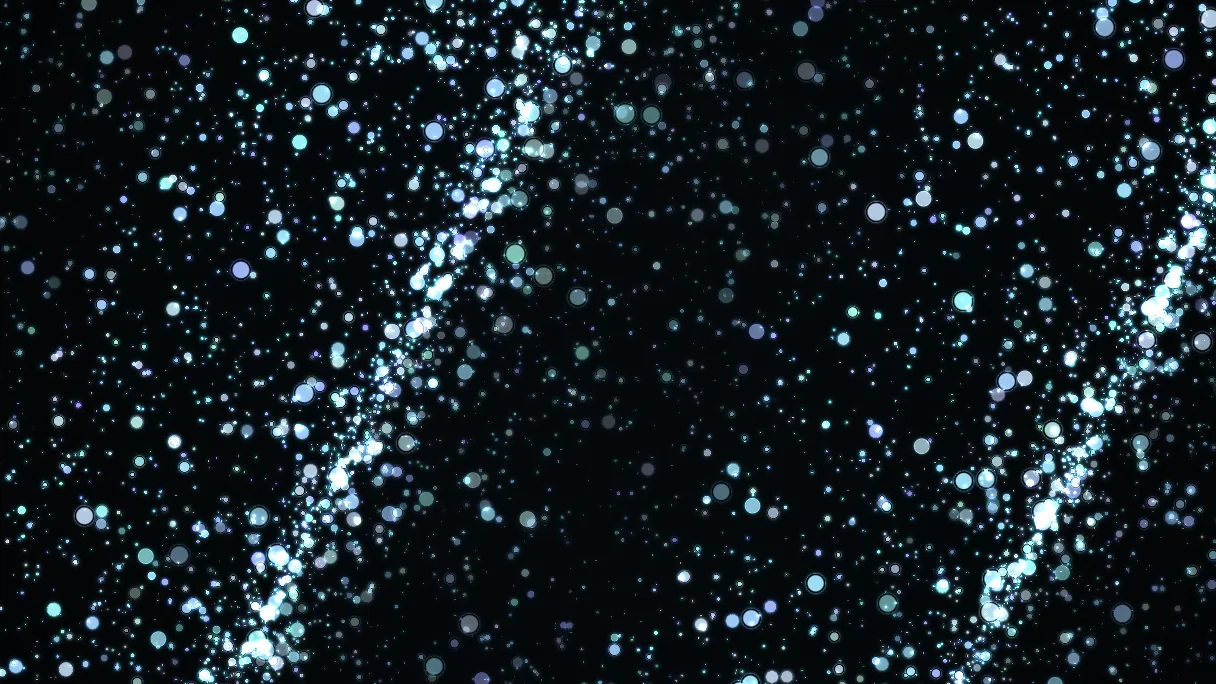
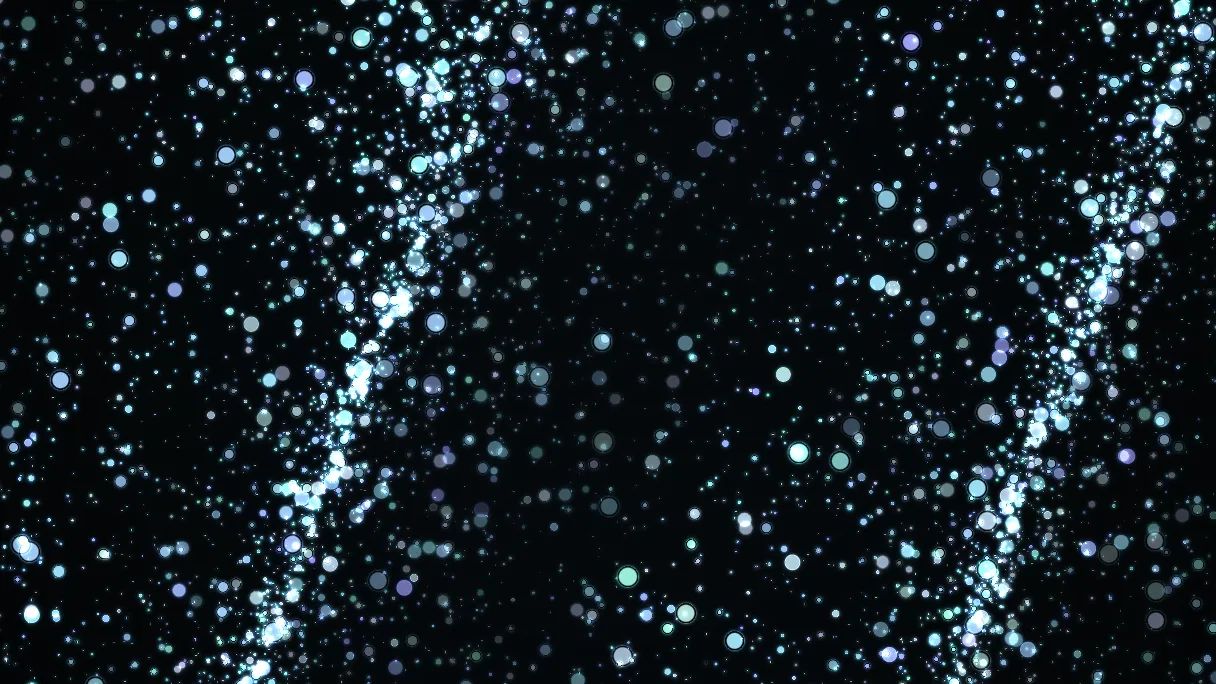
feat(experiments): crowd and flotsam draw their first frames, and the wall gets 3 s
Andrei: "let's raise the 1.5s limit. why can't crowd show the first frame?
flotsam?" Compared at plate size, each first frame reads as the same picture
as its settled poster: flotsam's lines are wave displacement, there from
frame one, and crowd's files and crossings do not show in a still. They draw
in 176 ms and 219 ms instead of 45 s and 40 s of simulation, and both
posters are recaptured from the same frame. Ten plates come to about 1.5 s,
so the wall's total budget is now 3 s.

diff --git a/src/experiments/flotsam/poster.ts b/src/experiments/flotsam/poster.ts
@@ -2,40 +2,32 @@ import type { ExperimentApi } from "@/experiments/flotsam/runner"
 import type { PosterRecipe } from "@/experiments/poster"
 
 /**
- * What Flotsam looks like when someone should want to click it.
+ * What Flotsam looks like when someone should want to click it: its first
+ * frame.
  *
- * The moment is the whole recipe. Frame one is a *uniform* scatter of specks —
- * the homes are drawn uniformly and nothing has happened to them yet — which is
- * a picture of the piece before it has done the only thing it does. The
- * gathering takes a wave period or two to establish, and the drift a good deal
- * longer. So the shutter waits, and `api.run()` is how it waits without a
- * capture taking half a minute.
+ * **This recipe used to run forty seconds**, on the claim that frame one is a
+ * uniform scatter of specks. It is not. The specks' *homes* are uniform, and
+ * that is where the piece starts, but a speck is drawn where the waves have
+ * displaced it from its home, so the lines the waves gather it into are there
+ * in the first frame. What forty seconds added was drift: the current carrying
+ * those lines somewhere else, which in a still is just a different place for
+ * them. Compared side by side at plate size, the two read as the same sea.
  *
- * Forty seconds, which is about five periods of the longest train in the landing
- * scene. Long enough for the flotsam to have collected into lines and for the
- * current to have carried them somewhere; not so long that the reader is looking
- * at a different scene from the one the page opens on.
+ * And the recipe has a second reader now. The index draws each plate live in a
+ * few hundred milliseconds or falls back to this poster
+ * (`../docs/adr/20261102-the-index-draws-its-plates.md`), and forty seconds of
+ * this sea cost about four. The first frame takes 219 ms.
  *
  * No preset named, deliberately, and for the reason Dangler's recipe gives: a
  * bare URL lands on the first preset, so opening the piece and photographing it
- * are the same act and the poster cannot come to show a scene the landing page
- * does not. Naming it here would be a second place to change, and the one that
- * gets forgotten.
+ * are the same act.
  *
- * Not byte-reproducible, although everything about the sea is. The seed fixes
- * the wave phases, the eddy field and every speck, and `run()` steps a fixed
- * number of times — so two captures put the same flotsam in the same places. The
- * sprites do not: their gradients are dithered with `Math.random` to break the
- * banding an eight-bit ramp would otherwise show, which moves every alpha by up
- * to half a level. Invisible to a person, and enough to churn the file, which is
- * what the slug filter on `pnpm run posters` is for.
+ * Not byte-reproducible. The sprites' gradients are dithered with
+ * `Math.random` to break the banding an eight-bit ramp would otherwise show,
+ * which is invisible to a person and enough to churn the file. That is what
+ * the slug filter on `pnpm run posters` is for.
  */
 const poster: PosterRecipe<ExperimentApi> = {
-  prepare: ({ api }) => api.run(40),
-
-  // No dwell. `run` has already put the sea where it should be, and waiting
-  // would only pick a different point in the same motion at the cost of a
-  // slower capture.
   dwellMs: 0,
 }
 

diff --git a/src/experiments/crowd/poster.ts b/src/experiments/crowd/poster.ts
@@ -2,42 +2,27 @@ import type { ExperimentApi } from "@/experiments/crowd/runner"
 import type { PosterRecipe } from "@/experiments/poster"
 
 /**
- * What Crowd looks like when somebody should want to click it.
+ * What Crowd looks like when somebody should want to click it: its first frame.
  *
- * A cold start is a crowd that has been placed and has not yet done anything:
- * nobody has negotiated a crossing, no files have formed, no group has been
- * squeezed through a gap, and the observer is standing still because their first
- * stretch of walking has not begun. It is a picture of a square before the
- * square happens, and dwelling in the capture script cannot fix it at a sensible
- * cost because dwelling is wall-clock and this needs a minute.
+ * **This recipe used to settle forty-five seconds**, on the reasoning that a cold
+ * start is "a square before the square happens": nobody has negotiated a
+ * crossing, no files have formed, and the observer has not started walking. All
+ * of that is true of the motion and none of it shows in a still. Compared side
+ * by side at plate size, the first frame and the settled one read as the same
+ * square. People on the horizon, a few near enough to be large.
  *
- * `settle` is the piece's own verb for exactly that. Forty-five seconds puts the
- * observer forty metres into the walk — far enough that every person in
- * frame arrived through the boundary rather than being placed there — and gets
- * the crowd through one full turnover, which is the state the piece spends the
- * rest of its life in.
+ * And the recipe has a second reader now. The index draws each plate live in a
+ * few hundred milliseconds or falls back to this poster
+ * (`../docs/adr/20261102-the-index-draws-its-plates.md`), and a second of this
+ * crowd costs about 650 ms to simulate at plate size, so forty-five of them
+ * kept the plate on its poster for good. The first frame takes 176 ms.
  *
- * **It names no preset**, which is the section's arrangement rather than an
- * omission: the poster is one of the three surfaces that read the primary, so
- * promoting a scene to first moves the index card with it.
- *
- * One shutter. Unlike Starry Night there is nothing transient worth hunting for
- * — the picture is a crowd rather than an event — and the seed in the primary
- * fixes which minute of which walk it is, so this recipe is as reproducible as
- * the section gets.
- *
- * **Forty-five seconds is about fifteen of wall clock**, which is affordable
- * here and is not affordable on a page load — see `STILL_SECONDS` in `crowd.ts`
- * and the backdrop in the note's page, both of which want the same thing and
- * cannot pay for it.
+ * **It names no preset**: the poster is one of the surfaces that read the
+ * primary, so promoting a scene to first moves the index card with it. The seed
+ * in the primary fixes the placement, so this is as reproducible as the section
+ * gets.
  */
 const poster: PosterRecipe<ExperimentApi> = {
-  prepare: ({ api }) => {
-    api.settle(45)
-  },
-
-  // Nothing to wait for once it has settled: the walk is established and the
-  // next frame looks like this one.
   dwellMs: 0,
 }
 

diff --git a/src/experiments/gallery/plates.ts b/src/experiments/gallery/plates.ts
@@ -48,16 +48,18 @@ import type { Live, Preset, Start } from "@/experiments/piece"
  * frames. Bubbles really was slow, 1.7 s for its old primary, and its primary
  * is now `standing still`, reached through a coarse warm-up; its `poster.ts`
  * says why. Its plate takes about 260 ms, of which `warm` is 220.
+ *
+ * Crowd and Flotsam draw their first frame, in 176 ms and 219 ms, rather than
+ * the 45 s and 40 s their recipes used to run. Their `poster.ts` files say why
+ * that frame is the piece.
  */
-const POSTER_ONLY = new Set(["crowd", "flotsam", "hexgrid", "psyxels", "walkers"])
+const POSTER_ONLY = new Set(["hexgrid", "psyxels", "walkers"])
 
 /**
  * Longest a plate may take to draw before the device is judged too slow for
  * the rest. A long task this size is a visible hitch in a scroll, which is the
  * thing being protected. The slowest plate drawn here, embers, takes about half
- * of it on the box above, and the eight together about 1.1 s of the 1.5 s
- * `TOTAL_BUDGET_MS`, so a device much slower than that box gets posters from
- * somewhere down the wall.
+ * of it on the box above.
  */
 const BUDGET_MS = 600
 
@@ -112,8 +114,14 @@ const PATIENCE_MS = 10_000
 /**
  * The most the whole wall may take, added up. `BUDGET_MS` alone would let a
  * device that takes just under it per plate pay that on every plate.
+ *
+ * It was 1.5 s, and the ten plates drawn here came to about 1.5 s on the box
+ * above, so a busy run of that box already ended with the last plates on their
+ * posters. Andrei raised it: "let's raise the 1.5s limit". It is paid one plate
+ * at a time in idle time, never as one long task, so the total is CPU time spent
+ * rather than a freeze.
  */
-const TOTAL_BUDGET_MS = 1500
+const TOTAL_BUDGET_MS = 3000
 
 /**
  * `?budget=off` draws every plate whatever it costs. For the browser suite,

diff --git a/src/experiments/crowd/AGENTS.md b/src/experiments/crowd/AGENTS.md
@@ -430,14 +430,16 @@ walk at a market's density. Three surfaces want it and only one can afford it:
 
 | surface              | seconds of walk | why                                           |
 | -------------------- | --------------- | --------------------------------------------- |
-| `poster.ts`          | 45              | offline, in the capture script                |
+| `poster.ts`          | 0               | the capture, and the index's live plate       |
 | reduced-motion still | 2               | a page load, for the audience asking for less |
 | the note's backdrop  | 4               | a page load, behind a sheet of text           |
 
 The still and the backdrop were 25 and 45 and were an eight- and nine-second
 freeze on a page load. What made the short ones acceptable is that **`restock`
 now places nobody inside anybody** — rejection sampling against a grid built as
-it goes — which is most of what the long settle was buying. What a settle still
+it goes — which is most of what the long settle was buying. The poster gave up
+its 45 for the same reason on 2026-11-06, when the index started drawing it
+live; `poster.ts` has the comparison. What a settle still
 buys is structure, and **a still cannot show structure that is defined by
 motion.**
 

diff --git a/src/experiments/docs/adr/20261102-the-index-draws-its-plates.md b/src/experiments/docs/adr/20261102-the-index-draws-its-plates.md
@@ -40,7 +40,7 @@ It draws **one plate at a time, in idle time**, and leaves nothing running.
 - a piece throws while drawing;
 - a piece is in `POSTER_ONLY`;
 - the device has taken longer than `BUDGET_MS` (600 ms) to draw a plate, or
-  1.5 s across the wall. The first slow plate stops the rest;
+  3 s across the wall (1.5 s until 2026-11-06). The first slow plate stops the rest;
 - a piece's code or its recipe has taken over ten seconds, so a stalled fetch
   cannot hold the queue.
 
@@ -60,6 +60,10 @@ to primary, so the plate still shows where its link lands. A coarse warm-up,
 `warm`, at four times the step, reaches it in 220 ms, about 260 ms for the whole
 plate, and its poster was recaptured the same way. The eight drawn plates now
 cost about 1.1 s of the 1.5 s total on the preview box.
+
+Then crowd and flotsam, by their first frames: a still does not show what their
+recipes ran forty-odd seconds to build, as their `poster.ts` files explain. Ten
+plates come to about 1.5 s, so the total became 3 s at Andrei's word.
 
 **And a visitor who asked for less motion gets every poster.** Each piece
 honours the preference inside its own `start()`, with a still of its own and a

diff --git a/src/experiments/flotsam/AGENTS.md b/src/experiments/flotsam/AGENTS.md
@@ -201,7 +201,7 @@ in order to work at all, and every one of them was learned by breaking it.
   become the setting this rule forbids.
 
   `run()` is deliberately _not_ scaled by it: it means seconds of sea, because a
-  poster recipe asking for forty seconds wants forty seconds of water whatever
+  recipe asking for forty seconds wants forty seconds of water whatever
   rate someone is viewing at. Retuning every scene's playback therefore left the
   poster showing the same frame it did before, which is a good sign the boundary
   is in the right place — it was not recaptured.
